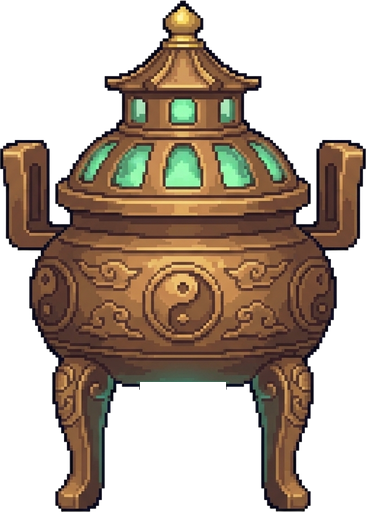
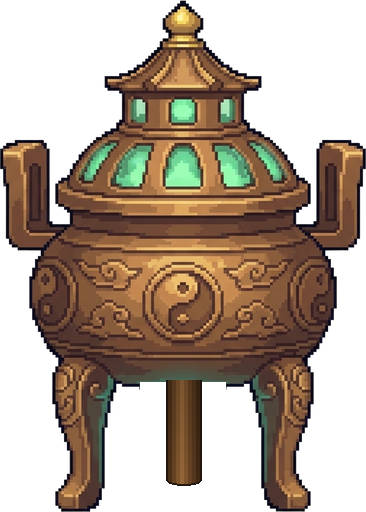
Đan lô: giữ chân giữa (vẽ lại phần bị lửa che), chỉ bỏ đốm lửa
Claude-Session: https://claude.ai/code/session_014A94BHnyL4tu48AS77QbVM

Changed region(s): [[0.4508, 0.7188, 0.571, 0.9688]]

diff --git a/src/ui/screens/Hub.ts b/src/ui/screens/Hub.ts
@@ -789,7 +789,7 @@ export class Hub {
     const burst = Array.from({ length: 16 }, (_, i) => h('i', { class: 'cf-bolt', style: `--a:${Math.round(i * 22.5 + (i % 2) * 9)}deg;--r:${110 + (i % 3) * 40}px;--dl:${0.15 + (i % 4) * 0.08}s` }));
     const furnace = h('div', { class: `cf-furnace ${kind}` },
       h('i', { class: 'cf-glow' }),
-      pic(`/ui/craft/furnace_${kind}.png?v=2`, { class: 'cf-img' }, [0, 0, 1, 1], kind === 'forge' ? [390, 512] : [366, 512]),
+      pic(`/ui/craft/furnace_${kind}.png?v=3`, { class: 'cf-img' }, [0, 0, 1, 1], kind === 'forge' ? [390, 512] : [366, 512]),
       h('i', { class: 'cf-fire' }), h('div', { class: 'cf-sparks' }, ...sparks),
       // lúc luyện: miệng lò (đan lô: lỗ thông hơi) rực sáng, tia lửa bắn tung ra 4 phía + 1 vòng sóng mỏng lan rộng rồi tan
       h('div', { class: 'cf-burst' }, h('i', { class: 'cf-core' }), h('i', { class: 'cf-wave' }), ...burst));

diff --git a/tools/art/furnace_from_ai.py b/tools/art/furnace_from_ai.py
@@ -13,8 +13,9 @@ HERE = os.path.dirname(os.path.abspath(__file__))
 REF = os.path.join(HERE, 'ref')
 OUT = os.path.join(os.path.dirname(os.path.dirname(HERE)), 'public', 'ui', 'craft')
 
-# đan lô: bỏ đốm lửa xanh + ống nhỏ dưới đáy (nằm giữa 2 chân, tách rời thân lò)
-ERASE = {'alchemy': [(140, 382, 226, 500)]}
+# đan lô: bỏ đốm lửa xanh dưới đáy, GIỮ chân giữa (chân thứ 3 phía sau, lửa che mất đoạn giữa → nối lại)
+FLAME = {'alchemy': (140, 382, 226, 500)}
+LEG = (166, 202, 380, 486)                                              # x0, x1, y0, y1 chân giữa
 
 
 def main():
@@ -42,10 +43,24 @@ def main():
         im = im.crop(im.getchannel('A').point(lambda v: 255 if v > 40 else 0).getbbox())
         s = 512 / max(im.size)
         im = im.resize((round(im.width * s), round(im.height * s)), Image.LANCZOS)
-        if name in ERASE:                                               # xoá chi tiết không dùng (toạ độ theo ảnh 512)
+        if name in FLAME:
+            # xoá đốm lửa (vùng FLAME), rồi vẽ lại chân giữa bằng đồng (chân sau, tối hơn 2 chân trước), đầu chân bo tròn
             px = np.array(im)
-            for x0, y0, x1, y1 in ERASE[name]:
-                px[y0:y1, x0:x1, 3] = 0
+            x0, y0, x1, y1 = FLAME[name]
+            px[y0:y1, x0:x1, 3] = 0
+            lx0, lx1, ly0, ly1 = LEG
+            w = lx1 - lx0
+            ramp = [(38, 24, 14), (78, 50, 26), (104, 68, 36), (128, 86, 46), (150, 104, 58), (128, 86, 46), (104, 68, 36), (86, 56, 30), (66, 42, 22), (38, 24, 14)]
+            for x in range(lx0, lx1):
+                t = (x - lx0) / (w - 1)
+                edge = x - lx0 < 2 or lx1 - 1 - x < 2
+                col = (38, 24, 14) if edge else ramp[min(len(ramp) - 2, max(1, int(t * (len(ramp) - 1) + 0.5)))]
+                cx = abs(x - (lx0 + lx1 - 1) / 2) / (w / 2)                 # 0 giữa → 1 mép
+                bottom = ly1 - int(round(6 * (1 - (1 - cx * cx) ** 0.5)))   # đầu chân bo tròn
+                for y in range(ly0, bottom):
+                    shade = 0.82 + 0.18 * (y - ly0) / (ly1 - ly0)            # sát thân tối hơn (bóng của thân lò)
+                    c = (38, 24, 14) if y >= bottom - 2 else tuple(int(v * shade) for v in col)
+                    px[y, x] = (*c, 255)
             im = Image.fromarray(px, 'RGBA')
         im.save(os.path.join(OUT, f'furnace_{name}.png'), optimize=True)
         print(name, im.size)
